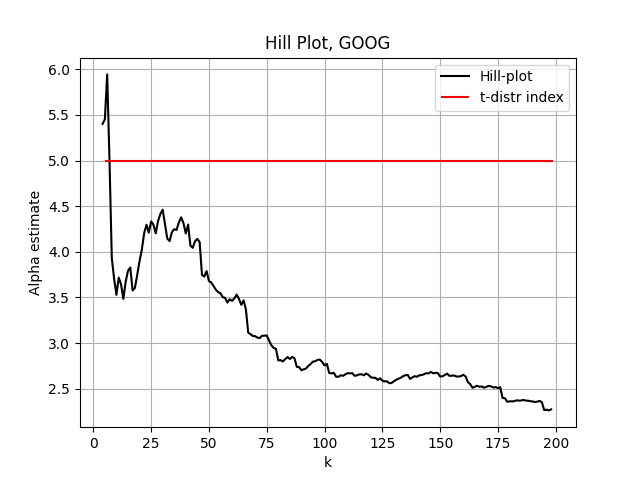
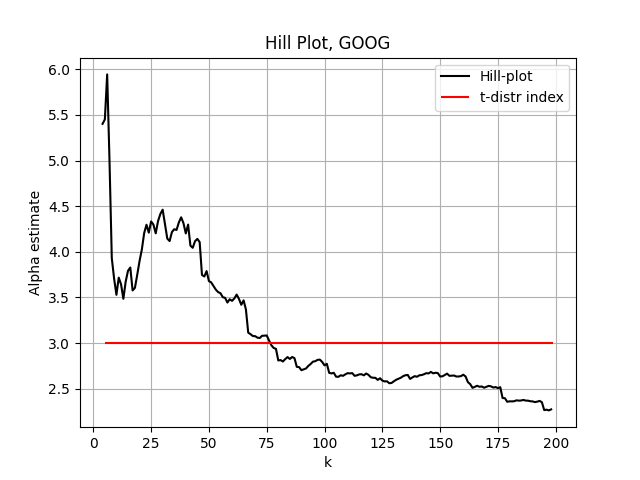
Saving figures

Changed region(s): [[0.1875, 0.6875, 0.8438, 0.7188], [0.1875, 0.3125, 0.8438, 0.3438]]

diff --git a/Mandatory assignment.py b/Mandatory assignment.py
@@ -34,11 +34,11 @@ u.marginal_plots(msft_neg,name_list[1]+'_QQ',df1=2,df2=3,df3=4,df4=5,df5=6,marke
 u.marginal_plots(mrk_neg,name_list[2]+'_QQ',df1=2,df2=3,df3=4,df4=5,df5=6,markersize=5)
 u.marginal_plots(idu_neg,name_list[3]+'_QQ',df1=2,df2=3,df3=4,df4=5,df5=6,markersize=5)
 
-# Google seems adequately fit by a t-distr. with df=6 or df=4
-# Msft df =4 is reasonable.
+# Google seems adequately fit by a t-distr. with df=3
+# Msft df =3 is reasonable.
 # Merck df=3 seems reasonable.
 # IDU df=2 seems adequate (maybe df=3 if we want second moment)
-dflist = [5,3,3,3]
+dflist = [3,3,3,3]
 
 ### 2. upper tail distributions of losses using EVT. 
 # Note this is only meaningfull for positive values of X
